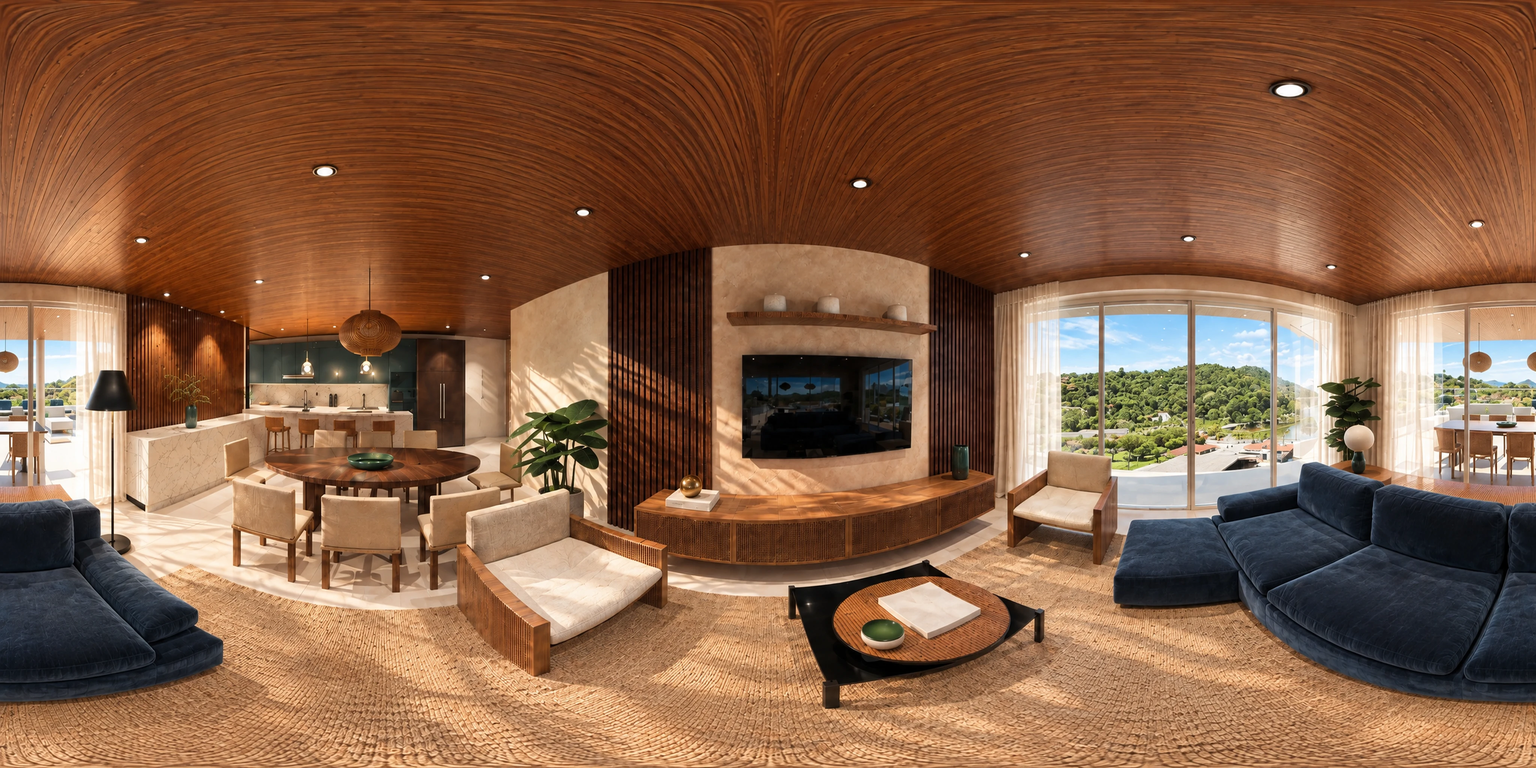
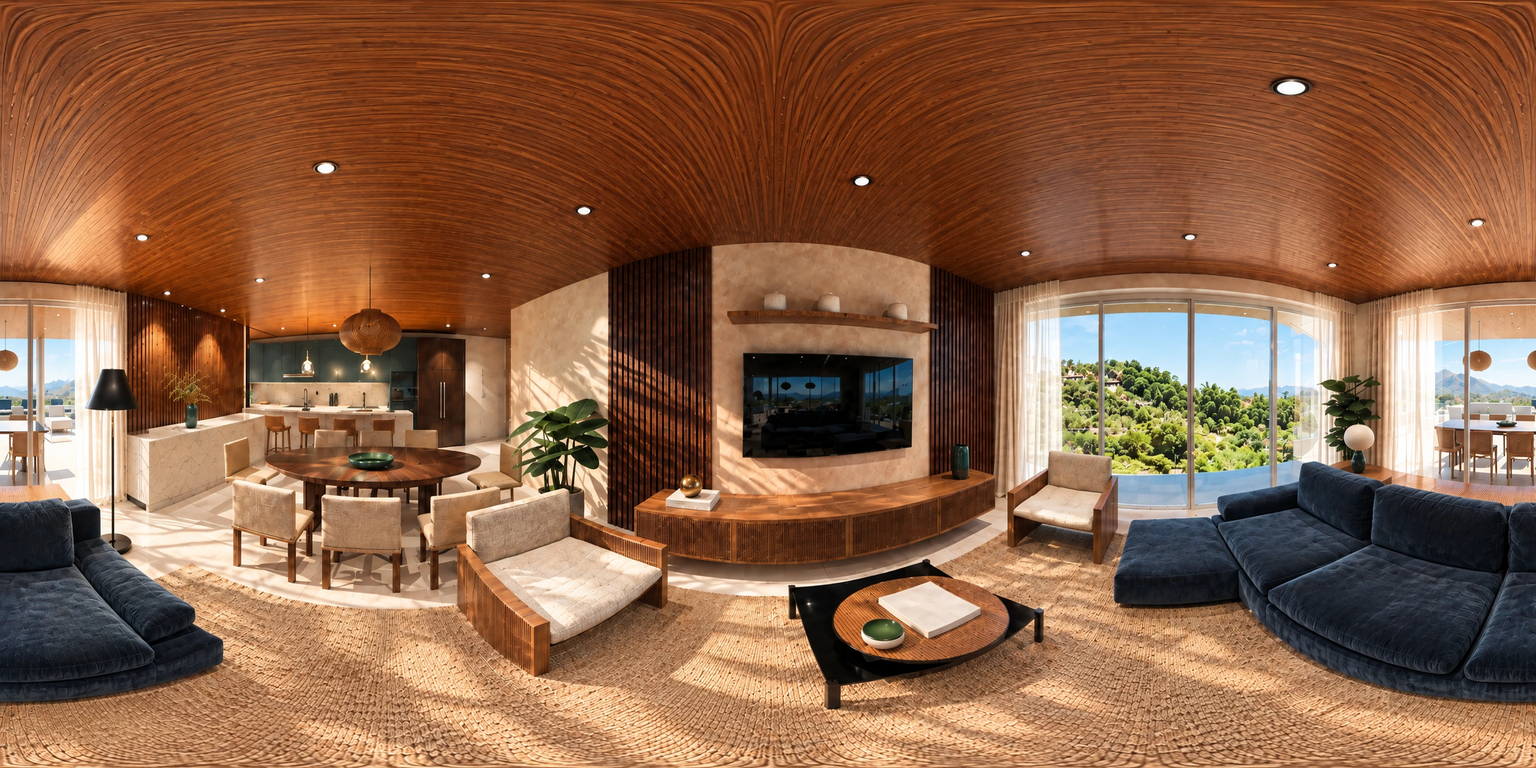
Tour 303: paisagem 360° (fotos reais + IA) como mundo do 3D, sem recortes; painel de pedra corrigido

diff --git a/tour-303/index.html b/tour-303/index.html
@@ -96,7 +96,7 @@
   <div class="map" id="map"><img src="../assets/img/plantas/planta-303.webp" alt="Planta da Cobertura 303 com os pontos do tour"></div>
 </aside>
 
-<p class="note">Imagens ilustrativas geradas a partir da planta da unidade (pé-direito 2,80 m). Mobiliário e decoração são sugestões e não fazem parte da entrega. A vista pelas janelas usa fotos reais tiradas da cobertura.</p>
+<p class="note">Imagens ilustrativas geradas a partir da planta da unidade (pé-direito 2,80 m). Mobiliário e decoração são sugestões e não fazem parte da entrega. A paisagem é ilustrativa, recriada a partir de fotos reais tiradas do terraço da unidade.</p>
 <div class="hint" id="hint">Arraste para olhar em volta</div>
 <div class="rotate" aria-live="polite">
   <svg viewBox="0 0 64 64" fill="none" stroke="currentColor" stroke-width="2.5" stroke-linecap="round" stroke-linejoin="round"><rect x="20" y="8" width="24" height="42" rx="4"/><path d="M29 44h6"/><path d="M50 40a18 18 0 0 1-14 16"/><path d="M40 52l-4 4 4 4" /></svg>

diff --git a/_ferramentas/tour303/cena_living.py b/_ferramentas/tour303/cena_living.py
@@ -357,6 +357,8 @@ wall_x(-1.45, 6.13, 9.05, openings=[(6.45, 7.55, 2.2, 0)])
 # corredor escuro atrás da passagem
 box('corredor_piso', -4.0, -1.6, 6.3, 7.7, -0.05, 0, M['floor'])
 box('corredor_fundo', -4.1, -4.0, 6.3, 7.7, 0, H, M['wall'])
+box('corredor_lado1', -4.1, -1.45, 6.2, 6.3, 0, H, M['wall'])
+box('corredor_lado2', -4.1, -1.45, 7.7, 7.8, 0, H, M['wall'])
 box('corredor_teto', -4.0, -1.6, 6.3, 7.7, H - 0.2, H - 0.15, M['plaster_white'])
 box('porta_suite', -3.2, -2.3, 6.25, 6.3, 0, 2.2, M['wood'])
 
@@ -447,7 +449,26 @@ prism('vidro_lateral', [(edge_x(TOP) + 0.09, TOP), (edge_x(TOP) + 0.11, TOP), (e
 prism('corrimao_lateral', [(edge_x(TOP) + 0.08, TOP), (edge_x(TOP) + 0.12, TOP), (edge_x(BOT) + 0.12, BOT), (edge_x(BOT) + 0.08, BOT)], 1.25, 1.28, M['steel'])
 # muro dos fundos (divisa) com painel de pedra, como na foto
 box('muro_fundos', 5.9, edge_x(BOT) + 0.2, BOT, BOT + 0.2, 0, 2.1, M['white'])
-box('painel_pedra', 11.2, 12.0, BOT - 0.02, BOT, 0.2, 2.1, M['stone'])
+# painel de revestimento em pedra no muro (como na foto real) — com textura de pedra, rente à parede
+def stone_build(nt, b):
+    br = nt.nodes.new('ShaderNodeTexBrick')
+    br.inputs['Scale'].default_value = 3.5
+    br.inputs['Color1'].default_value = (*srgb('#9c968c'), 1)
+    br.inputs['Color2'].default_value = (*srgb('#7d786f'), 1)
+    br.inputs['Mortar'].default_value = (*srgb('#6a655d'), 1)
+    br.inputs['Mortar Size'].default_value = 0.01
+    br.inputs['Brick Width'].default_value = 0.6
+    br.inputs['Row Height'].default_value = 0.25
+    nt.links.new(tex_coord(nt), br.inputs['Vector'])
+    nz = nt.nodes.new('ShaderNodeTexNoise'); nz.inputs['Scale'].default_value = 25; nz.inputs['Detail'].default_value = 10
+    nt.links.new(tex_coord(nt), nz.inputs['Vector'])
+    mx = nt.nodes.new('ShaderNodeMix'); mx.data_type = 'RGBA'; mx.blend_type = 'MULTIPLY'; mx.inputs['Factor'].default_value = 0.35
+    nt.links.new(br.outputs['Color'], mx.inputs[6]); nt.links.new(nz.outputs['Color'], mx.inputs[7])
+    nt.links.new(mx.outputs[2], b.inputs['Base Color'])
+    b.inputs['Roughness'].default_value = 0.9
+    bump = nt.nodes.new('ShaderNodeBump'); bump.inputs['Strength'].default_value = 0.8
+    nt.links.new(nz.outputs['Fac'], bump.inputs['Height']); nt.links.new(bump.outputs['Normal'], b.inputs['Normal'])
+box('painel_pedra', 11.2, 12.0, BOT - 0.01, BOT, 0.0, 2.1, node_mat('pedra_natural', stone_build))
 # jardineira no fim do deck
 box('jardineira', 11.8, edge_x(8.4) - 0.05, 8.4, 8.95, 0, 0.45, M['white'])
 for k in range(16):
@@ -542,9 +563,6 @@ def backdrop(name, path, center, size, rot_z, crop=None, strength=1.0):
 VIEW_BAIA = os.path.join(ORIG, 'WhatsApp-Image-2026-02-09-at-11.46.10-3.jpeg')   # do solarium, olhando para a frente: baía + morro
 VIEW_JARDIM = os.path.join(ORIG, 'WhatsApp-Image-2026-02-09-at-11.46.10.jpeg')   # do solarium, olhando para a lateral: jardins + serra
 # fotos reais em planos distantes (~45 m), horizonte na altura dos olhos
-backdrop('vista_frente', VIEW_BAIA, (9.0, 45.0, 1.0), (100, 70.3), 180, crop=(0.2, 0.0, 1.0, 1.0), strength=1.15)
-backdrop('vista_lateral', VIEW_JARDIM, (55.0, -3.0, 1.0), (110, 68.8), 90, crop=(0.08, 0.0, 1.0, 1.0), strength=1.15)
-backdrop('vista_fundos', VIEW_JARDIM, (9.0, -55.0, 1.0), (110, 68.8), 0, crop=(0.0, 0.0, 0.85, 1.0), strength=1.0)
 
 # ================================================================== LIVING
 # parede da TV: ripado de madeira em toda a parede esquerda do living
@@ -729,8 +747,14 @@ sun.rotation_euler = (math.radians(55), 0, math.radians(80))   # sol de fim de t
 world = bpy.data.worlds.new('ceu'); scene.world = world
 world.use_nodes = True
 bg = world.node_tree.nodes['Background']
+# paisagem 360° (vista do terraço da 303) como mundo: centro da imagem = +x da planta (serra/cidade)
+PAISAGEM = os.path.join(ORIG, 'vista303', 'paisagem_360.png')
+if os.path.exists(PAISAGEM):
+    env = world.node_tree.nodes.new('ShaderNodeTexEnvironment')
+    env.image = bpy.data.images.load(PAISAGEM)
+    world.node_tree.links.new(env.outputs['Color'], bg.inputs['Color'])
 bg.inputs['Color'].default_value = (*srgb('#6fa3dc'), 1)
-bg.inputs['Strength'].default_value = 2.2
+bg.inputs['Strength'].default_value = 1.6
 
 # portais de luz nas esquadrias
 def portal(loc, size, rot):

diff --git a/_ferramentas/tour303/vista_pano.py b/_ferramentas/tour303/vista_pano.py
@@ -1,0 +1,84 @@
+"""
+Monta um panorama equirretangular (2:1) da paisagem vista do terraço da 303 a partir de
+fotos comuns, cada uma colocada na direção em que foi tirada.
+
+  python vista_pano.py montar  saida.png  mascara.png
+  python vista_pano.py fundir  ia.png  saida_final.png     # recoloca as fotos reais sobre a versão completada pela IA
+
+Convenção do panorama: centro (yaw 0) = +x da planta (saindo do living para o terraço,
+serra e cidade à frente); yaw -90 = esquerda (lado do parque/morro verde).
+"""
+import sys, os
+import numpy as np
+from PIL import Image, ImageDraw, ImageFilter
+
+HERE = os.path.dirname(os.path.abspath(__file__))
+SRC = os.path.abspath(os.path.join(HERE, '..', '..', '_originais', 'vista303'))
+W, H = 4096, 2048
+HFOV = 100.0  # celular grande-angular
+
+# (arquivo, yaw, pitch, polígono do que é paisagem em coords normalizadas da foto)
+FOTOS = [
+    ('saida_varanda.png', 0.0, -9.5, [[(0.0, 0.2), (0.245, 0.2), (0.245, 0.415), (0.0, 0.415)],
+                                      [(0.30, 0.2), (0.61, 0.2), (0.61, 0.415), (0.30, 0.415)]]),
+    ('esquerda.png', -87.0, 5.2, [[(0.1, 0.0), (1.0, 0.0), (1.0, 1.0), (0.72, 1.0), (0.44, 0.63), (0.1, 0.63)]]),
+    ('centro.png', -52.0, 2.6, [[(0.0, 0.0), (1.0, 0.0), (1.0, 1.0), (0.52, 1.0), (0.0, 0.6)]]),
+]
+
+def mask_for(size, polys, feather):
+    m = Image.new('L', size, 0); d = ImageDraw.Draw(m)
+    for poly in polys:
+        d.polygon([(x * size[0], y * size[1]) for x, y in poly], fill=255)
+    return m.filter(ImageFilter.GaussianBlur(feather)) if feather else m
+
+def project(feather=6):
+    lon = ((np.arange(W) + 0.5) / W - 0.5) * 2 * np.pi
+    lat = (0.5 - (np.arange(H) + 0.5) / H) * np.pi
+    lon, lat = np.meshgrid(lon, lat)
+    d = np.stack([np.cos(lat) * np.sin(lon), np.sin(lat), np.cos(lat) * np.cos(lon)], -1)  # x direita, y cima, z frente
+    acc = np.zeros((H, W, 3), np.float32); wsum = np.zeros((H, W), np.float32)
+    for fn, yaw, pitch, polys in FOTOS:
+        img = Image.open(os.path.join(SRC, fn)).convert('RGB')
+        w, h = img.size
+        a = np.asarray(img).astype(np.float32)
+        m = np.asarray(mask_for((w, h), polys, feather)).astype(np.float32) / 255
+        y_, p_ = np.radians(yaw), np.radians(pitch)
+        # base da câmera
+        f = np.array([np.cos(p_) * np.sin(y_), np.sin(p_), np.cos(p_) * np.cos(y_)])
+        r = np.array([np.cos(y_), 0, -np.sin(y_)])
+        u = np.cross(f, r)   # para cima
+        zc = d @ f
+        t = np.tan(np.radians(HFOV) / 2)
+        with np.errstate(divide='ignore', invalid='ignore'):
+            xs = (d @ r) / zc / t
+            ys = (d @ u) / zc / t * (w / h)
+        px = (xs + 1) / 2 * w; py = (1 - ys) / 2 * h
+        ok = (zc > 0) & (px >= 0) & (px < w - 1) & (py >= 0) & (py < h - 1)
+        xi = px[ok].astype(int); yi = py[ok].astype(int)
+        wt = m[yi, xi]
+        acc[ok] += a[yi, xi] * wt[:, None]
+        wsum[ok] += wt
+    return acc, wsum
+
+def montar(out, out_mask):
+    acc, wsum = project()
+    cover = np.clip(wsum, 0, 1)
+    img = np.where(wsum[..., None] > 0, acc / np.maximum(wsum, 1e-6)[..., None], 0)
+    grey = np.full_like(img, 128)
+    comp = img * cover[..., None] + grey * (1 - cover[..., None])
+    Image.fromarray(comp.astype(np.uint8)).save(out)
+    Image.fromarray((cover * 255).astype(np.uint8)).save(out_mask)
+
+def fundir(ia_path, out):
+    acc, wsum = project(feather=14)
+    real = acc / np.maximum(wsum, 1e-6)[..., None]
+    cover = np.clip(wsum, 0, 1)[..., None]
+    ia = np.asarray(Image.open(ia_path).convert('RGB').resize((W, H), Image.LANCZOS)).astype(np.float32)
+    res = real * cover + ia * (1 - cover)
+    Image.fromarray(np.clip(res, 0, 255).astype(np.uint8)).save(out)
+
+if __name__ == '__main__':
+    if sys.argv[1] == 'montar':
+        montar(sys.argv[2], sys.argv[3])
+    else:
+        fundir(sys.argv[2], sys.argv[3])
